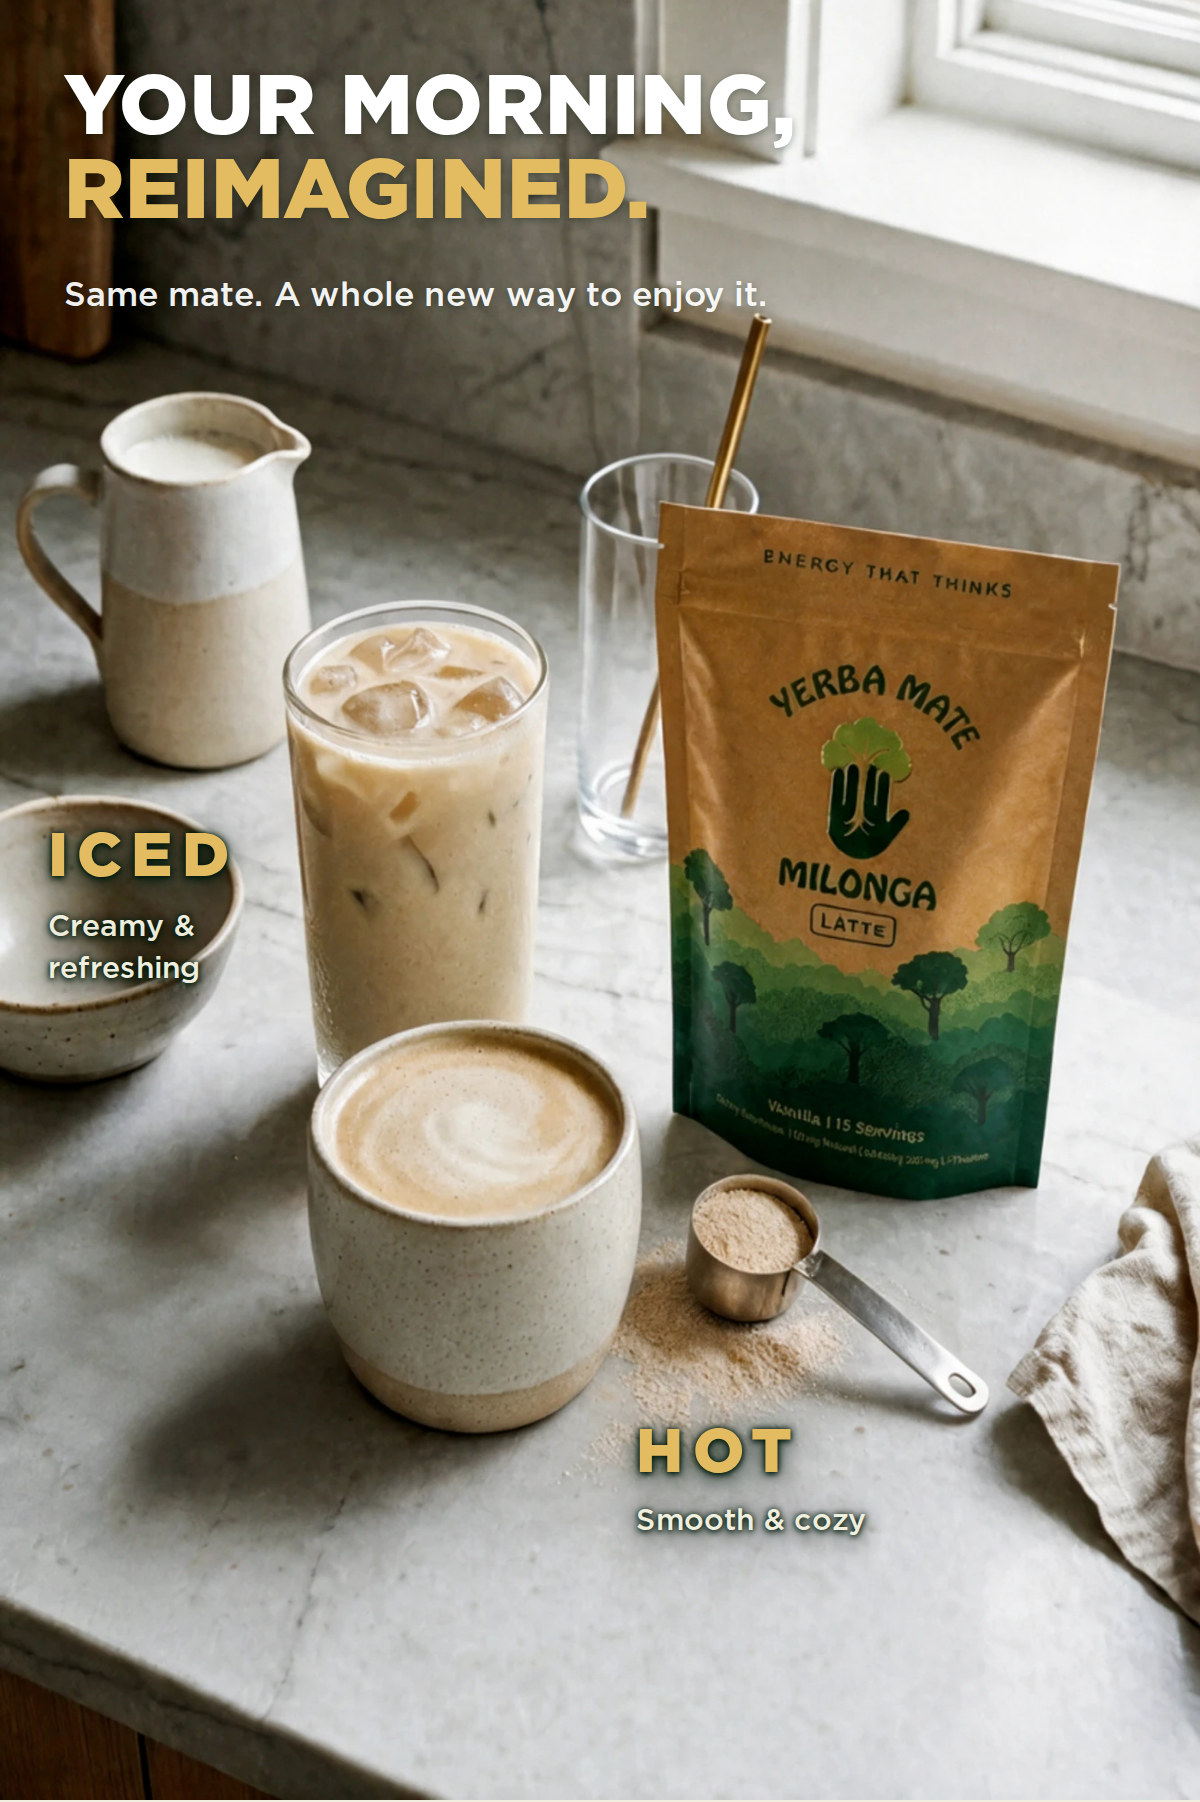
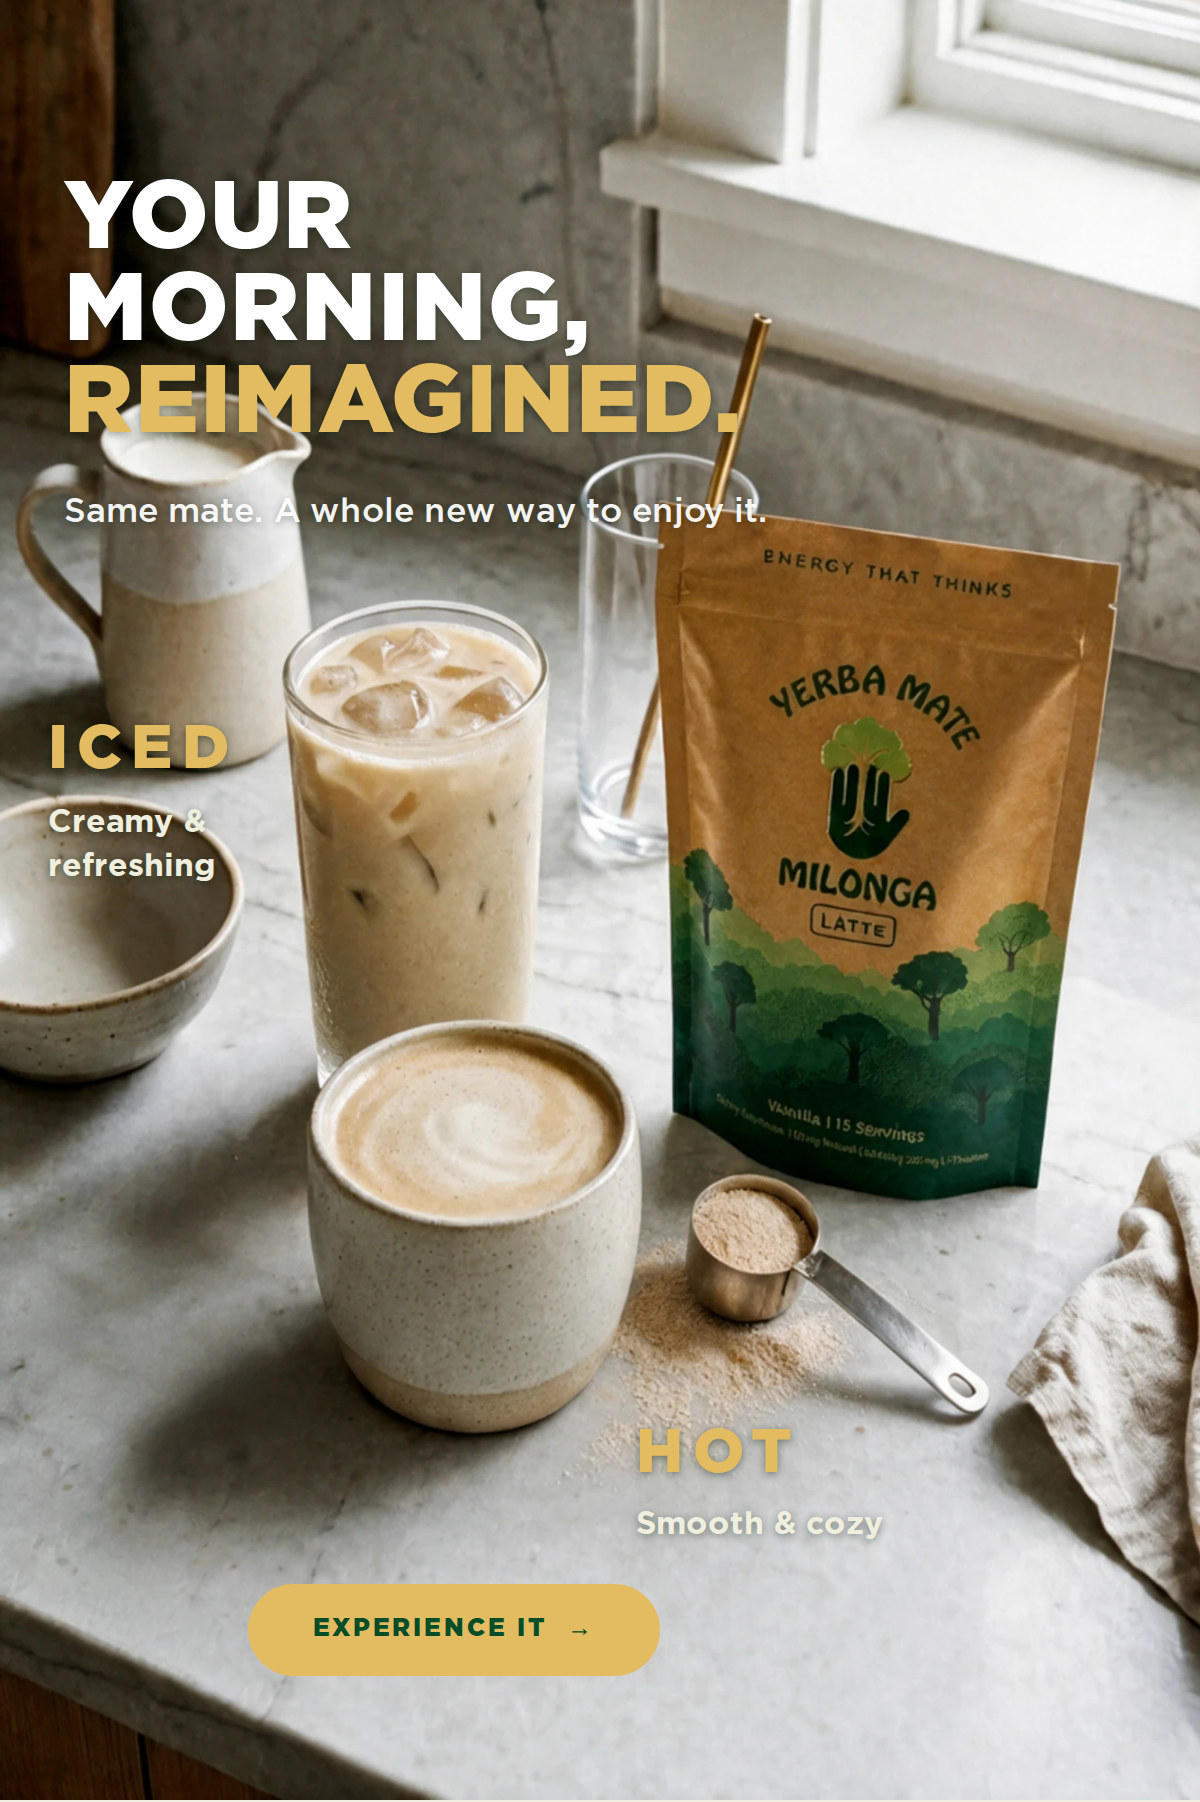
Section 4: bigger title, dropped block, flat labels, centred CTA
48px is the ceiling here, not a preference. Section 1's accent line runs 65,
but the binding word is "REIMAGINED." — eleven characters needing 522px at
65px against a 600px frame. The dark marble that can carry type runs x 0-65%,
y 0-30%; at 48px the word measures 385px and sits inside it. Anything larger
walks out over the window sill, the empty glass and the top of the pack.

The block drops to 88px from the top, which is as far as it goes: the stack is
182px tall and the dark band ends at 30% of the frame. At 104 the subtitle was
landing across the pouch.

`labelHalo` and `ctaAlign` are new. The labels lose the dense halo as asked,
down to a single quiet shadow; centring the CTA also had to ignore the copy
column's asymmetric padding, or "centred" would have meant centred on the
column and landed it off to one side of the picture.

Label notes go to 700 weight at 16px. At 500 "Smooth & cozy" was disappearing:
it sits on 200-plus marble, and a note under a label is signage on a
photograph, not body copy on a page — it gets one line and has to hold on
whatever it is standing on. Checked at 2x after the change.

Claude-Session: https://claude.ai/code/session_01NhEtXPnfeCJfN73SqBkUZ5

diff --git a/email-ds/emails/mate-latte-why.jsx b/email-ds/emails/mate-latte-why.jsx
@@ -141,46 +141,48 @@ function MateLatteWhy() {
     }),
 
     // ── 4 · HOT OR ICED ───────────────────────────────────────────────────
-    // The counter still life, in as shot, with the headline in section 1's
-    // treatment and a label pinned to each cup.
+    // The counter still life, in as shot, with a label pinned to each cup and
+    // the button centred on the frame at the foot.
     //
-    // WHERE THE TYPE CAN GO IS SET BY THE LIGHT. Measured on the untouched
-    // file, the marble wall behind the top-left corner reads luminance 68 and
-    // holds that out to about 65% of the width — which is why the headline
-    // sits there and can afford both white and gold. The bottom half is a lit
-    // marble counter at 185-206, the brightest ground in this campaign.
+    // 48px IS THE CEILING, NOT A CHOICE. Section 1's accent line runs 65, but
+    // the binding word here is "REIMAGINED." — eleven characters, which need
+    // 522px at 65px against a 600px frame. The dark marble that can carry type
+    // runs x 0-65%, y 0-30%; at 48px the word measures 385px and fits inside
+    // it. Anything larger walks out over the window sill, the empty glass and
+    // the top of the pack.
     //
-    // So ICED, beside the glass at 133, is comfortable. HOT sits where it was
-    // asked to, off the cup's bottom-right corner, and that is the 200-plus
-    // patch: it holds only because labels carry the dense halo unconditionally.
+    // THE LABELS ARE FLAT NOW. Measured: ICED sits at luminance 133, which
+    // gold survives unaided. HOT sits at 200-plus — the brightest ground in
+    // the campaign — and without its halo it is the one piece of type here
+    // that is genuinely fighting its background.
     h(M.T9Story, {
       src: IMG.counter,
-      alt: 'Your morning, reimagined. An iced Milonga Mate Latte in a tall glass and a hot one in a ceramic cup on a marble counter, beside the Mate Latte pouch and a measuring scoop. Iced is creamy and refreshing, hot is smooth and cozy.',
+      alt: 'Your morning, reimagined. An iced Milonga Mate Latte in a tall glass and a hot one in a ceramic cup on a marble counter, beside the Mate Latte pouch and a measuring scoop. Iced is creamy and refreshing, hot is smooth and cozy. Experience it.',
       align: 'left',
       line1Color: '#FFFFFF',
       line1: 'Your morning,',
       line2: 'Reimagined.',
       paras: ['Same mate. A whole new way to enjoy it.'],
       ratio: 1.501,
-      size: 42,
-      titleLead: 1.0,
-      // High enough that the one-line subtitle finishes before the pitcher
-      // starts at 22% of the frame — at 300px measure it wrapped, and the
-      // second line sat across the jug's rim.
-      top: 34,
+      size: 48,
+      titleLead: 0.96,
+      // Dropped well clear of the top edge, as asked.
+      top: 88,
       padLeft: 32,
-      // 390, not 348: a lone first paragraph renders at 17px rather than 16,
-      // so this line needs 367px and was orphaning "it." onto a second row.
       padRight: 178,
       measure: 390,
       scrim: 0,
       halo: 'soft',
+      labelHalo: 'soft',
       labels: [
         { text: 'Iced', note: 'Creamy & refreshing',
-          top: '46%', left: '4%', width: 150, size: 31 },
+          top: '40%', left: '4%', width: 150, size: 31 },
         { text: 'Hot', note: 'Smooth & cozy',
           top: '79%', left: '53%', width: 160, size: 31 },
       ],
+      cta: { label: 'Experience it', href: '#shop', arrow: true },
+      ctaAlign: 'center',
+      at: '88%',
     })
   );
 }

diff --git a/email-ds/src/components/HeroTemplates.tsx b/email-ds/src/components/HeroTemplates.tsx
@@ -1063,6 +1063,15 @@ export interface T9Props {
    */
   labels?: PhotoLabel[];
   /**
+   * The labels' own shadow, separate from the headline's. Defaults to a dense
+   * halo because a label sits where its subject is rather than where the
+   * picture is quiet. 'none' is flat, and only safe once you have checked what
+   * is actually behind each one.
+   */
+  labelHalo?: 'auto' | 'soft' | 'none';
+  /** Align the pinned CTA independently of the copy. */
+  ctaAlign?: 'left' | 'center';
+  /**
    * Override either headline line's colour. `ink` picks the brand pair — cream
    * and gold on a dark ground — and these are the escape hatch for when a
    * poster wants a flatter, colder white than the brand cream.
@@ -1140,6 +1149,8 @@ export function T9Story({
   line1Color,
   line2Color,
   labels = [],
+  labelHalo: labelHaloMode = 'auto',
+  ctaAlign,
   halo = 'auto',
   titleLead = 1.0,
   align = 'center',
@@ -1215,8 +1226,10 @@ export function T9Story({
     ? '0 1px 4px rgba(251,248,239,0.7)'
     : '0 1px 4px rgba(0,26,13,0.38)';
   const shadow = halo === 'none' ? 'none' : halo === 'soft' ? softShad : autoShadow;
-  // Labels get the dense halo unconditionally — see `labels`.
-  const labelHalo = '0 0 3px rgba(0,26,13,0.95), 0 1px 3px rgba(0,26,13,0.92), 0 2px 10px rgba(0,26,13,0.82), 0 6px 26px rgba(0,26,13,0.6)';
+  const labelHalo =
+    labelHaloMode === 'none' ? 'none'
+    : labelHaloMode === 'soft' ? '0 1px 4px rgba(0,26,13,0.45)'
+    : '0 0 3px rgba(0,26,13,0.95), 0 1px 3px rgba(0,26,13,0.92), 0 2px 10px rgba(0,26,13,0.82), 0 6px 26px rgba(0,26,13,0.6)';
   const autoSoft = darkInk
     ? '0 0 3px rgba(251,248,239,0.98), 0 0 8px rgba(251,248,239,0.92), 0 0 18px rgba(251,248,239,0.7)'
     : bare
@@ -1354,11 +1367,14 @@ export function T9Story({
             <div
               style={{
                 fontFamily: fontStack,
-                fontWeight: 500,
-                fontSize: 15,
-                lineHeight: 1.4,
+                // 700, not 500. A label's note is signage on a photograph, not
+                // body copy on a page — it gets one line and has to hold on
+                // whatever it happens to be standing on.
+                fontWeight: 700,
+                fontSize: 16,
+                lineHeight: 1.38,
                 color: l.noteColor ?? colors.beige,
-                marginTop: 7,
+                marginTop: 8,
                 textShadow: labelHalo,
               }}
             >
